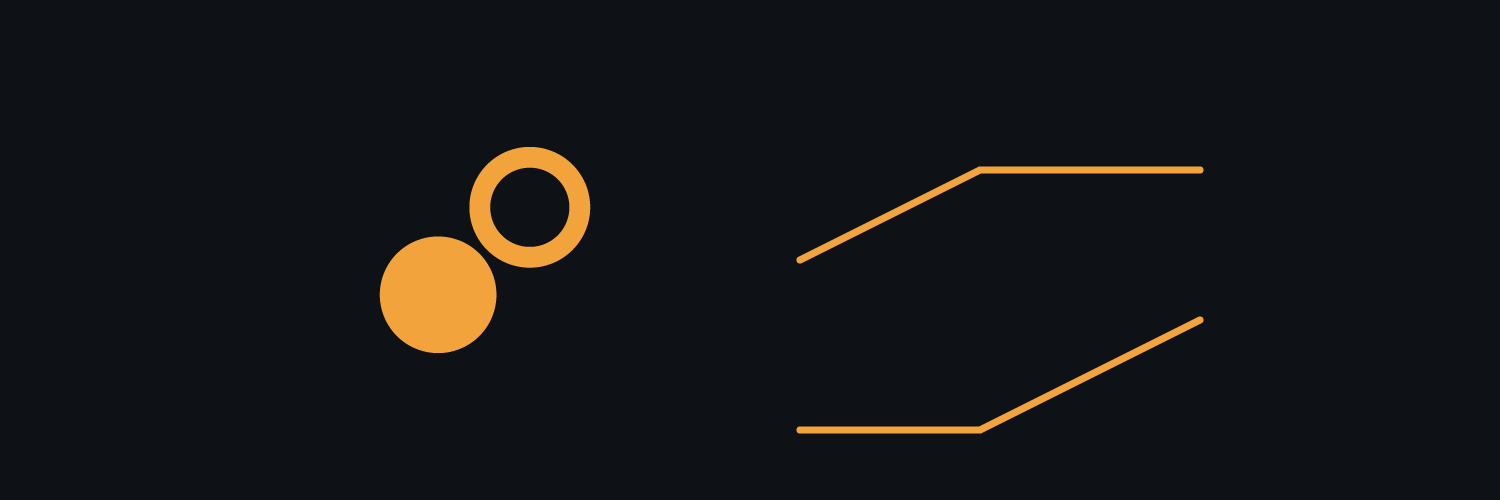
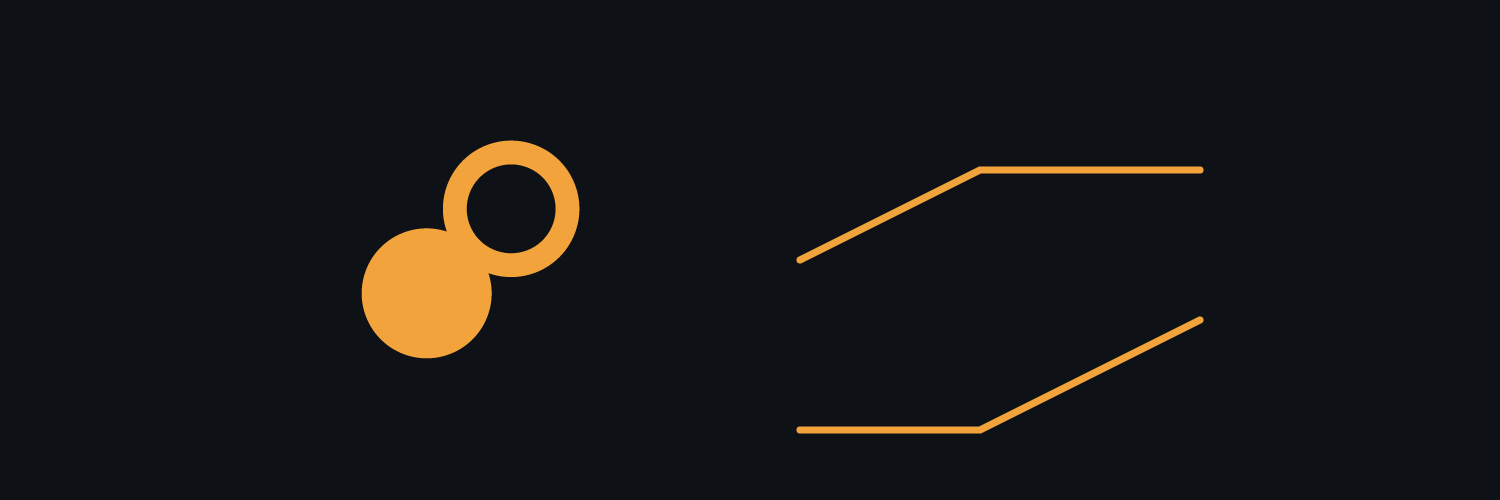
Join the two forms so the mark holds together at small sizes

Changed region(s): [[0.2147, 0.27, 0.3987, 0.72]]

diff --git a/brand/render.py b/brand/render.py
@@ -14,9 +14,13 @@ def seg_dist(px, py, x1, y1, x2, y2):
     return hypot(px - (x1 + t * dx), py - (y1 + t * dy))
 
 def mark_hit(x, y):
-    """The mark in its native 120x120 space."""
-    if hypot(x - 37.5, y - 81.5) <= 28.0: return True        # the floor: solid, it has value
-    if abs(hypot(x - 81.5, y - 39.5) - 24.0) <= 5.0: return True  # the upside: open, may be empty
+    """The mark in its native 120x120 space.
+
+    A solid disc and an open ring, joined and rising. The floor always has value, so it is solid.
+    The upside can be worth nothing, so it is a hole. They overlap rather than float apart, which
+    is what keeps the mark one object at 28px instead of three details that collapse separately."""
+    if hypot(x - 40.0, y - 80.0) <= 30.0: return True              # the floor
+    if abs(hypot(x - 79.0, y - 41.0) - 26.0) <= 5.5: return True   # the upside
     return False
 
 def payoff_hit(x, y, w, h):

diff --git a/brand/README.md b/brand/README.md
@@ -15,6 +15,12 @@ always has value, the other frequently has none. A shape that divides something 
 
 It is also not a coin, which most of the timeline is.
 
+The two forms **overlap rather than float apart**, and that is a legibility decision rather than an
+aesthetic one. An earlier version had them separated on a diagonal. Under the circular crop that
+X, LinkedIn, Discord and GitHub all apply, a diagonal composition wastes the frame, and at 32px
+three fine details — two shapes, a gap, and a hole — collapse at the same moment. Joined, it is one
+object with one internal detail, and it survives down to 28px.
+
 ## Files
 
 | File | Use |
@@ -22,6 +28,7 @@ It is also not a coin, which most of the timeline is.
 | `aarka-avatar-400.png` · `aarka-avatar-1000.png` | profile picture, ink background |
 | `aarka-banner-1500x500.png` | X / Twitter header |
 | `aarka-mark-512.png` | mark on transparent, amber |
+| `aarka-favicon-64.png` | favicon |
 | `aarka-mark-ink-512.png` | mark on transparent, ink |
 | `aarka-mark.svg` · `-ink` · `-paper` | vector mark, three colourways |
 | `aarka-wordmark.svg` · `-light` | mark plus wordmark |
@@ -44,7 +51,8 @@ a timeline where everything else is cold.
 - Keep clear space of at least half the mark's diameter on every side.
 - Never re-colour the two halves differently. They are the same asset, divided.
 - Never close the gap. The gap is the product.
-- The mark stays legible down to 32px; below that, use the solid disc alone.
+- The mark stays legible down to 28px; below that, use the solid disc alone.
+- Never separate the two forms. They overlap so the mark stays one object when it is small.
 
 ## Regenerating
 
